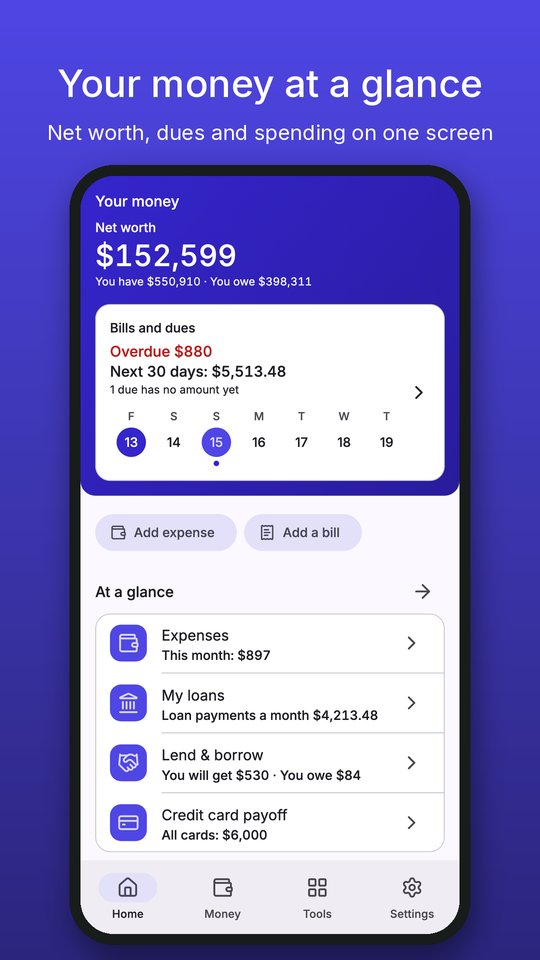
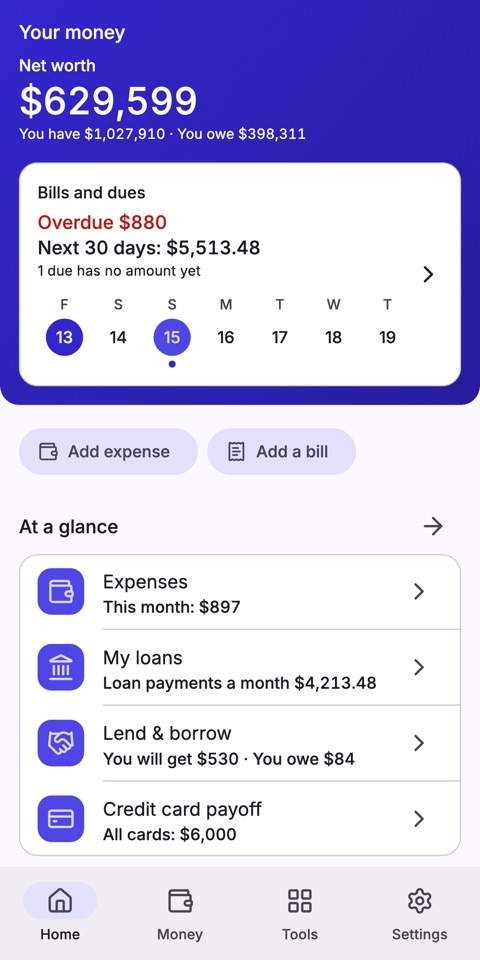
Net worth, widgets, tablets and six countries' tools from build 36

diff --git a/index.html b/index.html
@@ -114,6 +114,10 @@
         <p>Payments made, balance left, the next payment, rate changes, extra payments and how to pay off faster.</p></div>
       <div class="card"><div class="icon">📈</div><h3>Insights</h3>
         <p>Loan health check, a loan closure checklist, and in India a yearly home loan tax summary.</p></div>
+      <div class="card"><div class="icon">🏠</div><h3>Net worth and budgets</h3>
+        <p>Accounts plus your home, car, investments and gold for your real net worth. Budgets per category; leftovers can carry over to next month.</p></div>
+      <div class="card"><div class="icon">📱</div><h3>Widgets and tablets</h3>
+        <p>Home screen widgets for what is due, this month's spending and quick add. Made for phones and tablets.</p></div>
       <div class="card"><div class="icon">☁</div><h3>Backup</h3>
         <p>Optional daily backup to your own Google Drive, a backup file you keep anywhere, and app lock.</p></div>
     </div>
@@ -127,7 +131,7 @@
     <div class="shots">
       <img src="img/2_expenses.jpg" alt="Expenses with a monthly budget" loading="lazy">
       <img src="img/3_bills.jpg" alt="Bills and dues" loading="lazy">
-      <img src="img/4_goals.jpg" alt="Savings goals" loading="lazy">
+      <img src="img/4_net_worth.jpg" alt="Accounts and assets: your real net worth" loading="lazy">
       <img src="img/5_calculator.jpg" alt="Loan payment calculator" loading="lazy">
       <img src="img/6_ledger.jpg" alt="Lend &amp; borrow" loading="lazy">
       <img src="img/8_tools.jpg" alt="Money tools" loading="lazy">
@@ -143,7 +147,13 @@
       <li><b>Loans:</b> how much can I borrow, education loan, find my rate, how long to repay, close early, compare offers, credit card instalments, balance transfer</li>
       <li><b>Home and goals:</b> down payment, home buying cost, rent or buy, goal planner, prepay or invest</li>
       <li><b>Save and invest:</b> fixed deposit, regular savings, monthly investment with step-up</li>
-      <li><b>For your country:</b> tools made for the country you live in. India's set is the first: income tax old or new regime, in-hand salary, HRA, EPF, gratuity, NPS, GST, PPF, repo rate change, no-cost EMI, home loan tax benefit</li>
+      <li><b>For your country:</b> tools made for the country you live in:
+        <b>India</b> (income tax old or new regime, in-hand salary, HRA, EPF, gratuity, NPS, GST, PPF and more),
+        <b>United States</b> (federal tax, take-home pay, 401(k), Roth or traditional),
+        <b>United Kingdom</b> (income tax, take-home pay with National Insurance, ISA),
+        <b>Canada</b> (federal tax, take-home pay, RRSP or TFSA),
+        <b>Australia</b> (take-home pay with the Medicare levy, super) and
+        <b>Germany</b> (Einkommensteuer, Brutto-Netto)</li>
     </ul>
   </div>
 </section>
